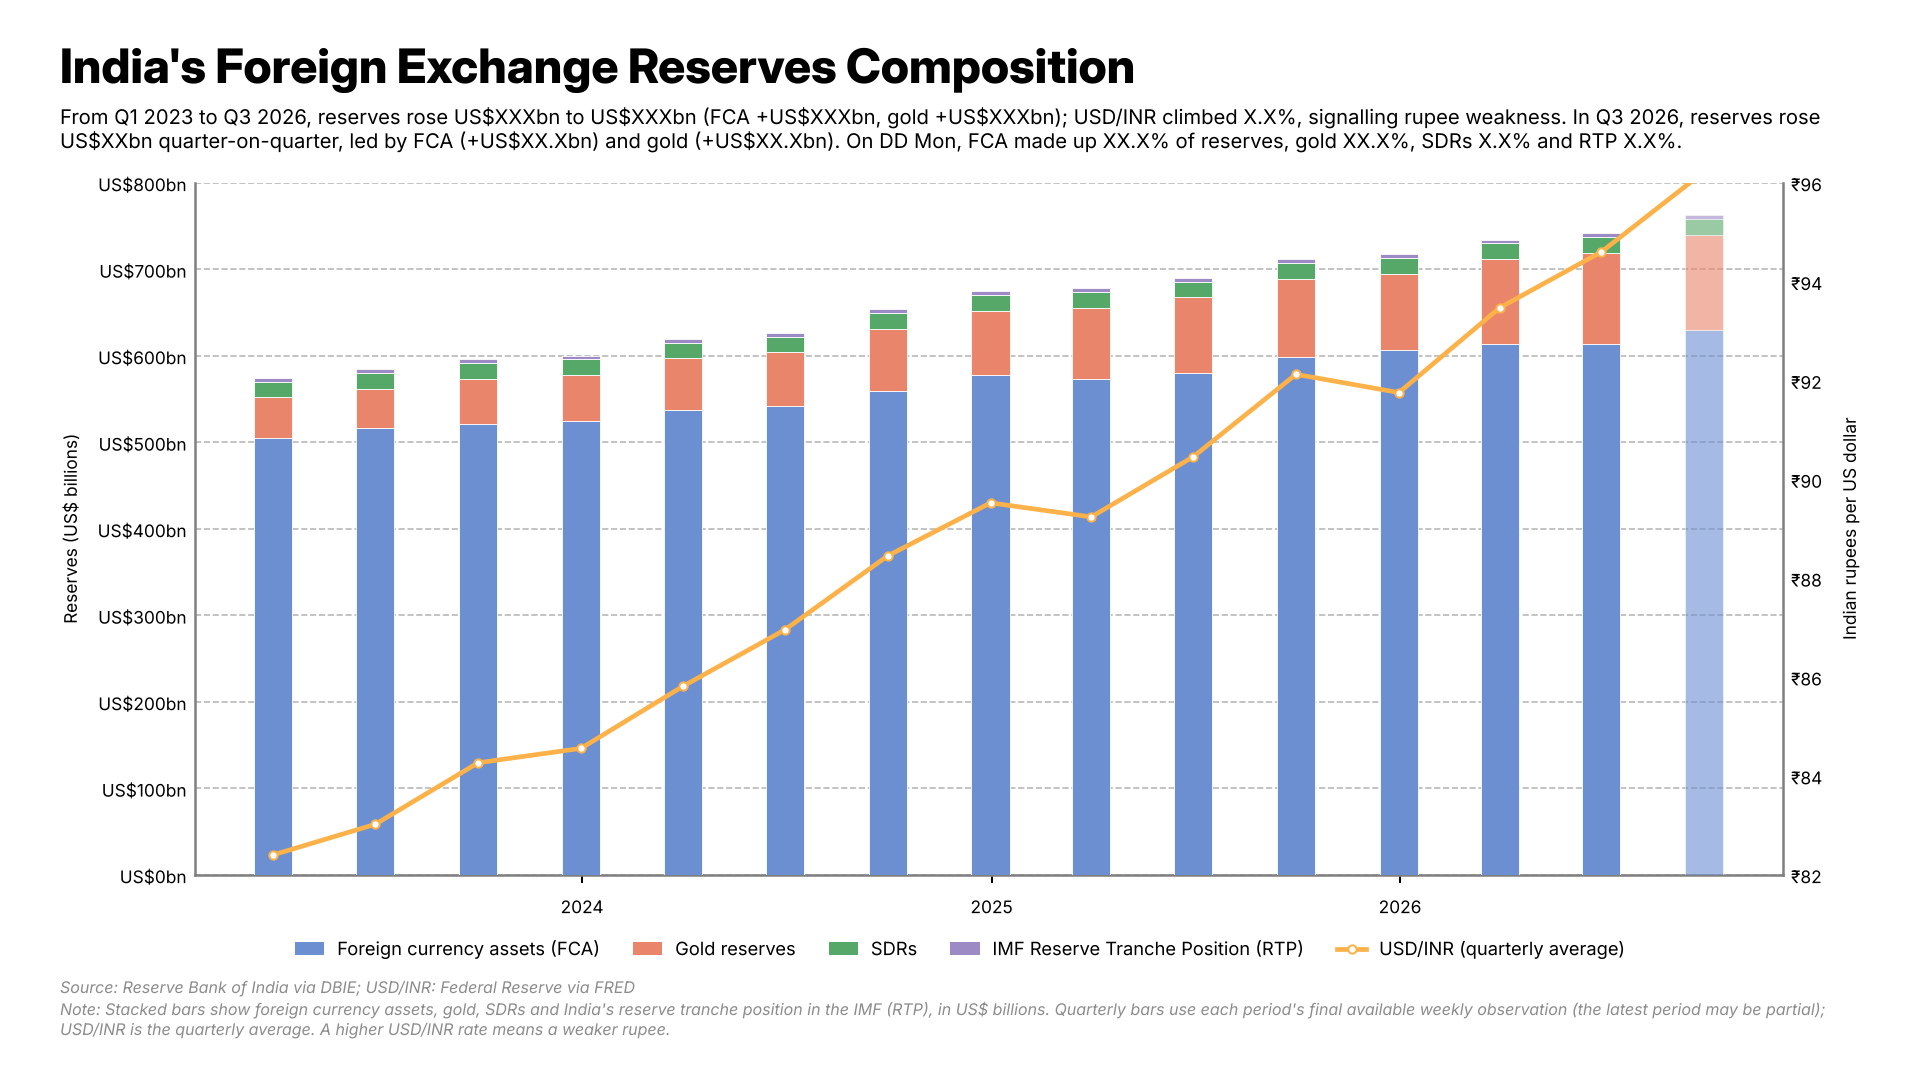
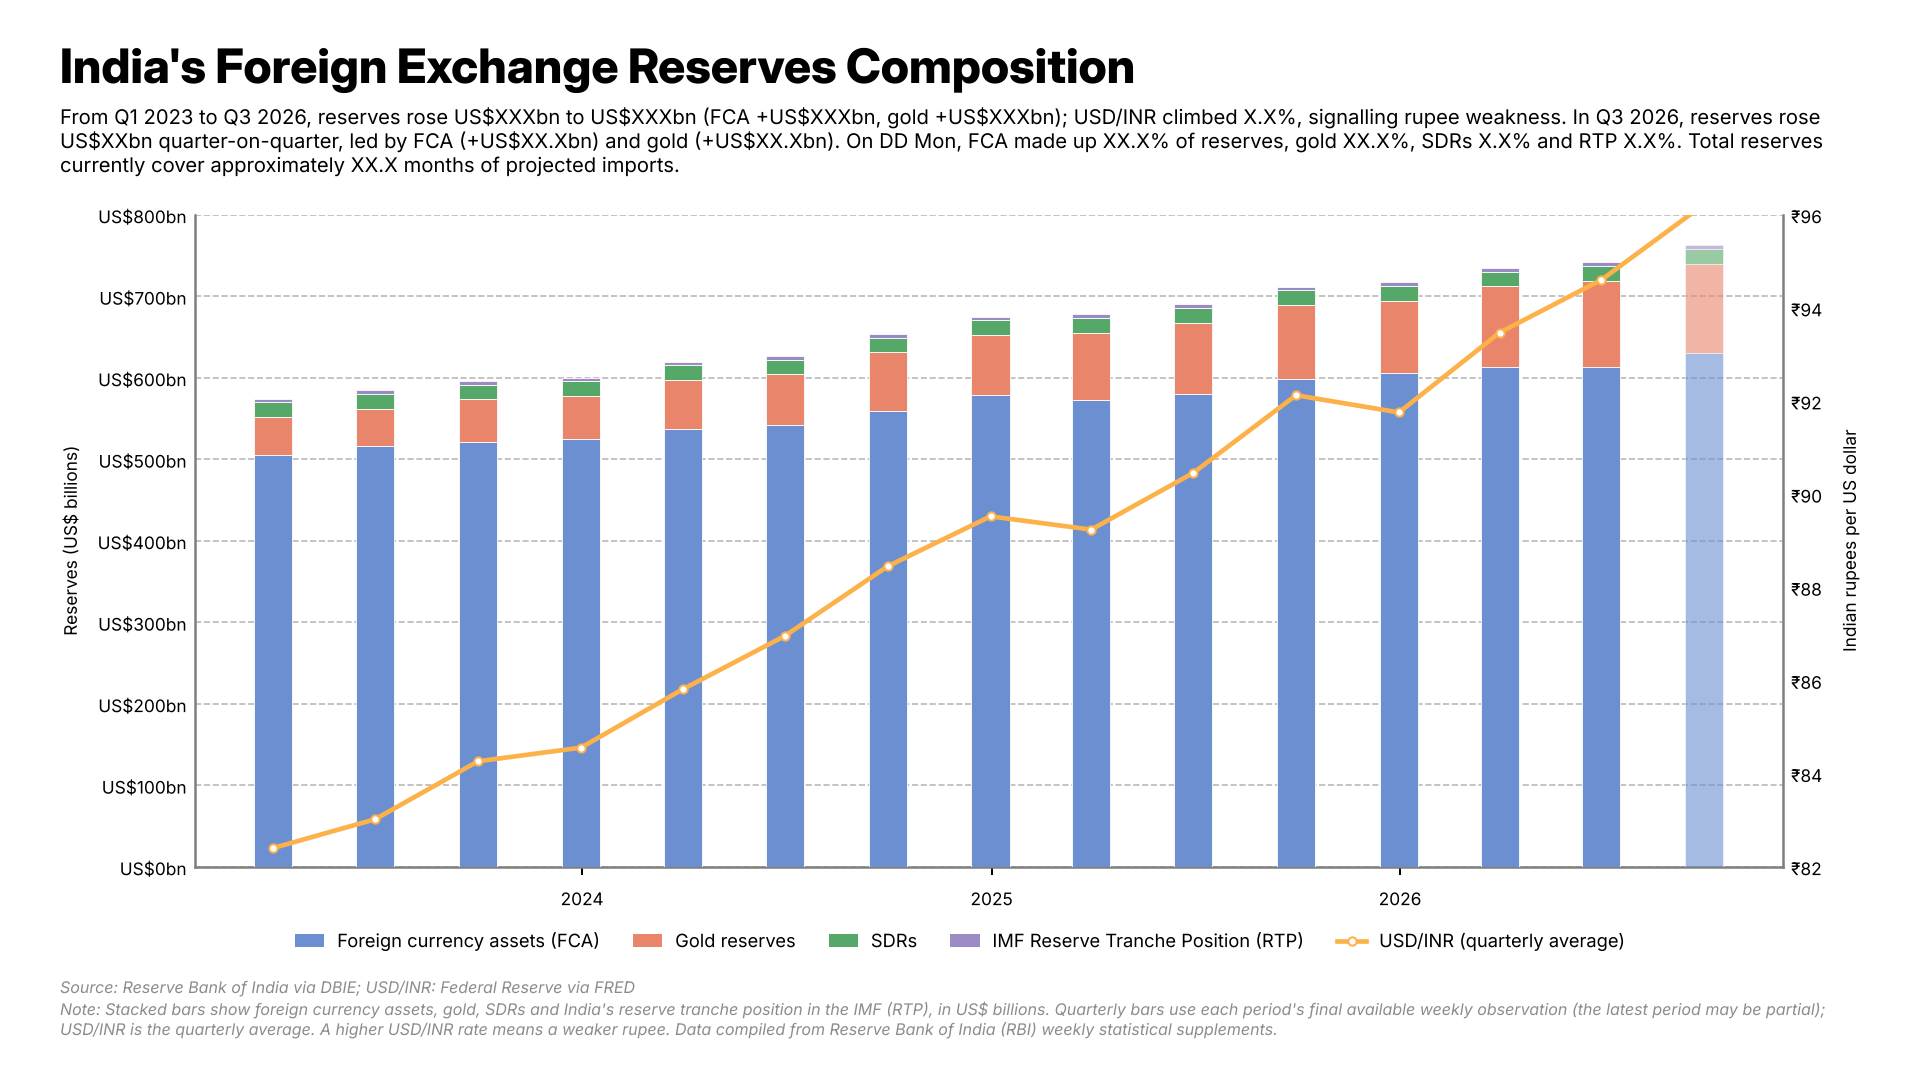
Commit Changes

diff --git a/test.py b/test.py
@@ -35,12 +35,16 @@ f = Frame(
               "(FCA +US$XXXbn, gold +US$XXXbn); USD/INR climbed X.X%, signalling "
               "rupee weakness. In Q3 2026, reserves rose US$XXbn quarter-on-quarter, "
               "led by FCA (+US$XX.Xbn) and gold (+US$XX.Xbn). On DD Mon, FCA made up "
-              "XX.X% of reserves, gold XX.X%, SDRs X.X% and RTP X.X%."),
+              "XX.X% of reserves, gold XX.X%, SDRs X.X% and RTP X.X%. "
+              "Total reserves currently cover approximately XX.X months of projected imports."),
+
     note=("Note: Stacked bars show foreign currency assets, gold, SDRs and India's "
           "reserve tranche position in the IMF (RTP), in US$ billions. Quarterly bars "
           "use each period's final available weekly observation (the latest period may "
           "be partial); USD/INR is the quarterly average. A higher USD/INR rate means "
-          "a weaker rupee."),
+          "a weaker rupee. "
+          "Data compiled from Reserve Bank of India (RBI) weekly statistical supplements."),
+
     source="Source: Reserve Bank of India via DBIE; USD/INR: Federal Reserve via FRED",
     debug=False,   # True shows the grey plot area and orange margin lines
 )

diff --git a/institutional_exhibit/spec.py b/institutional_exhibit/spec.py
@@ -12,7 +12,7 @@ class Spec:
     margin_x: float = 60
     margin_top: float = 40
     margin_bottom: float = 40     # note end -> image bottom, always constant
-    gap: float = 22               # subtitle ink -> plot area, plot area -> source ink
+    gap: float = 30               # subtitle ink -> plot area, plot area -> source ink
     title_gap: float = 5.4        # title -> subtitle
     footer_gap: float = 2         # source -> note
 
